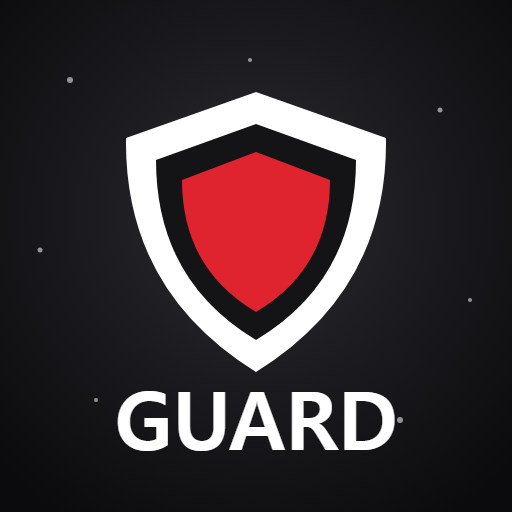
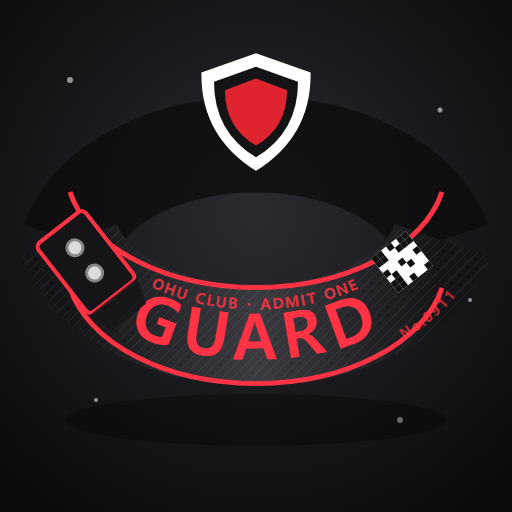
Beige cafe and gukbap order windows, club passes as wristbands (D-640)

Changed region(s): [[0.0625, 0.0938, 0.875, 0.9062], [0.75, 0.5625, 0.875, 0.6875], [0.125, 0.375, 0.1875, 0.4375]]

diff --git a/tools/art/icons/dashboard_icons.html b/tools/art/icons/dashboard_icons.html
@@ -227,18 +227,53 @@ function coldSpark(){
   return s+`</g>`;
 }
 
+// ---------- club wristbands (user 2026-10-31, photos of club entry bands):
+// a Tyvek band looped round, the name printed big along the front, a small
+// club line, a serial number, a QR square and the snap end with its tab
+function qr(x,y,s,col){let r=`<rect x="${x}" y="${y}" width="${s}" height="${s}" fill="#fff"/>`;const n=7,c=s/n;
+  for(let i=0;i<n;i++)for(let j=0;j<n;j++){const corner=(i<2&&j<2)||(i>4&&j<2)||(i<2&&j>4);if(corner||((i*7+j*13+i*j)%3===0))r+=`<rect x="${x+i*c}" y="${y+j*c}" width="${c}" height="${c}" fill="${col}"/>`;}
+  return r}
+function wristband(base,ink,line,text,o={}){
+  const id1=id("bf"),id2=id("bt"),id3=id("bs");
+  const back=o.back||base;
+  let s=`<defs><linearGradient id="${id1}" x1="0" x2="1"><stop offset="0" stop-color="${base}"/><stop offset=".5" stop-color="${o.shine||base}"/><stop offset="1" stop-color="${base}"/></linearGradient>
+    <path id="${id2}" d="M70,240 A190,120 0 0 0 442,240"/>
+    <pattern id="${id3}" width="10" height="10" patternUnits="userSpaceOnUse"><path d="M0,10 L10,0" stroke="#fff" stroke-width="1" opacity=".08"/></pattern></defs>`;
+  s+=shadow(256,420,190,26,.3);
+  // the back of the loop (darker), then the front
+  s+=`<path d="M70,240 A190,120 0 0 1 442,240" stroke="${back}" stroke-width="96" fill="none" opacity=".55"/>`;
+  s+=`<path d="M70,240 A190,120 0 0 1 442,240" stroke="#000" stroke-width="96" fill="none" opacity=".35"/>`;
+  s+=`<path d="M70,240 A190,120 0 0 0 442,240" stroke="url(#${id1})" stroke-width="100" fill="none"/>`;
+  s+=`<path d="M70,240 A190,120 0 0 0 442,240" stroke="url(#${id3})" stroke-width="100" fill="none"/>`;
+  s+=`<path d="M70,192 A190,120 0 0 0 442,192" stroke="${line}" stroke-width="5" fill="none"/><path d="M70,288 A190,120 0 0 0 442,288" stroke="${line}" stroke-width="5" fill="none"/>`;
+  s+=`<text font-size="${o.size||70}" fill="${ink}" letter-spacing="${o.spacing||4}" dy="24"><textPath href="#${id2}" startOffset="${o.at||"50%"}" text-anchor="middle">${text}</textPath></text>`;
+  s+=`<text font-size="15" fill="${ink}" opacity=".85" dy="-26" letter-spacing="3"><textPath href="#${id2}" startOffset="50%" text-anchor="middle">OHU CLUB · ADMIT ONE</textPath></text>`;
+  s+=`<text font-size="14" fill="${ink}" opacity=".7" dy="40"><textPath href="#${id2}" startOffset="86%" text-anchor="middle">No.${o.no||"0001"}</textPath></text>`;
+  s+=`<g transform="translate(402,262) rotate(-38)">${qr(-22,-22,44,"#111")}</g>`;
+  // the snap end and its tab hanging off the left
+  s+=`<g transform="translate(86,262) rotate(52)"><rect x="-44" y="-30" width="88" height="60" rx="6" fill="${base}" stroke="${line}" stroke-width="4"/><circle cx="-18" cy="0" r="8" fill="#ddd" stroke="#888" stroke-width="3"/><circle cx="14" cy="0" r="8" fill="#ddd" stroke="#888" stroke-width="3"/><path d="M44,-30 L70,-22 L70,22 L44,30Z" fill="${base}" opacity=".8"/></g>`;
+  if(o.mark) s+=o.mark;
+  return s;
+}
+const BANDS={
+  vip:()=>wristband("#e8b53a","#2a1a00","#fff1b8","VIP",{shine:"#fff0b0",no:"0777",mark:`<g transform="translate(256,120) scale(.55) translate(-256,-250)">${crown()}</g>`}),
+  guard:()=>wristband("#151517","#ff3344","#ff3344","GUARD",{shine:"#3a3a40",no:"0911",size:64,mark:`<g transform="translate(256,112) scale(.42) translate(-256,-232)">${shield()}</g>`}),
+  dj:()=>wristband("#b02cff","#ffffff","#3ee8ff","DJ",{shine:"#ff3da0",no:"0303",size:84,spacing:10,mark:`<g transform="translate(256,98) scale(.42) translate(-256,-250)">${headphones()}</g>`}),
+};
+
 // ---------- the list ----------
 const D=(t,body,extra="")=>({t,body,extra});
 const ICONS={
-  VIP:D("vip",()=>crown()+`<text x="256" y="452" font-size="88" text-anchor="middle" fill="#f5c542" stroke="#5a3a00" stroke-width="4">VIP</text>`),
-  Guard:D("guard",()=>shield()+`<text x="256" y="450" font-size="80" text-anchor="middle" fill="#fff">GUARD</text>`),
+  // (2026-10-31) club passes as entry wristbands
+  VIP:D("vip",()=>BANDS.vip()),
+  Guard:D("guard",()=>BANDS.guard()),
   FramePack:D("photo",()=>photoStrip(196,250,-10,"#fff",["#ffb3d1","#b3e5ff","#fff2a8","#c8f0c0"])+photoStrip(316,250,10,"#ffd23f",["#ff9fc5","#9fd8ff","#ffe27a","#d6b8ff"])+star(120,110,26)+star(410,120,20)+star(420,400,16), badge("12종","#ff3da0","#fff")),
   CoinX2:D("coin",()=>coin(226,246,150)+`<text x="380" y="420" font-size="130" text-anchor="middle" fill="#fff" stroke="#ff3da0" stroke-width="8" paint-order="stroke">x2</text>`),
   Glowstick:D("glow",()=>glowstick()),
   BusAd1D:D("city",()=>busStop(),badge("24시간")),
   BusAd3D:D("city",()=>busStop(),badge("3일")),
   CoinBoost1h:D("coin",()=>coin(220,240,130)+`<circle cx="372" cy="150" r="64" fill="#fff" stroke="#3ee8ff" stroke-width="8"/><path d="M372,150 L372,108 M372,150 L404,166" stroke="#1a1030" stroke-width="10" stroke-linecap="round"/><text x="390" y="360" font-size="96" text-anchor="middle" fill="#fff" stroke="#ff3da0" stroke-width="7" paint-order="stroke">x2</text>`,badge("1시간")),
-  DJ:D("dj",()=>`<g transform="translate(0,-30)">${headphones()}</g><g transform="translate(62,118) scale(.76)">${turntable()}</g>`,badge("30분","#3ee8ff")),
+  DJ:D("dj",()=>BANDS.dj(),badge("30분","#3ee8ff")),
   Drink_GingerBrew:D("club",()=>shadow(256,452,90,14)+flask(256,440,1.3,"#f0874b","#fae6be","#e2b13c")),
   Drink_Monte:D("club",()=>shadow(256,452,90,14)+flask(256,440,1.3,"#69a528","#fff","#c8102e",`<path d="M0,-108 L6,-94 L20,-94 L9,-85 L13,-71 L0,-79 L-13,-71 L-9,-85 L-20,-94 L-6,-94Z" fill="#c8102e"/>`)),
   Drink_FrenchLemonade:D("club",()=>shadow(256,452,90,14)+flask(256,440,1.3,"#f2d646","#fff","#9aa0a8")),
@@ -380,6 +415,9 @@ const MENU={
   menu_sundae:()=>ttukbaegi("#d9b9a0",{slices:[sundaeSlice(200,234),sundaeSlice(240,246),sundaeSlice(290,228),sundaeSlice(320,248),porkSlice(250,224,6)],onion:true}),
   menu_beef:()=>ttukbaegi("#b8321e",{slices:[beefSlice(206,232,-8),beefSlice(270,240,10),beefSlice(318,228,-4)],onion:true,pepper:true}),
   menu_suyuk:()=>suyuk(),
+  menu_band_vip:()=>BANDS.vip(),
+  menu_band_guard:()=>BANDS.guard(),
+  menu_band_dj:()=>BANDS.dj(),
   menu_header_cafe:()=>mug("#8a4a2a",{steam:true,heart:true,cup:"#fff5f8"}),
   menu_header_gukbap:()=>ttukbaegi("#f1e8d6",{slices:[porkSlice(220,232,-8),porkSlice(290,236,6)],onion:true}),
 };

diff --git a/docs/06_LOG/DECISIONS.md b/docs/06_LOG/DECISIONS.md
@@ -1106,3 +1106,4 @@ D-636 — (2026-10-31, user mock-up) Picture order windows for the cafes (BeachC
 D-637 — (2026-10-31, user, after comparing other club games) Guard pass 199 → 399 R$ (above VIP 299; other clubs 399 and 1450; fewer guards about) and DJ 30분 25 → 49 R$ (one booth per server: while the queue is full the same number of turns sell, about twice the takings). MonetizationConfig prices (the shop rows read them), PRODUCTS.md, GUARD.md, CLUB_SHOP_PRICING.md. The user changes the two prices on the Creator Dashboard (pass 2062319135, product 3722464534). Planned for later, docs only: a permanent DJ title by number of paid DJ turns (5 / 20 / 50 → DJ ROOKIE / RESIDENT DJ / HEADLINER, DJ_SYSTEM.md §7).
 D-638 — (2026-10-31, user screenshots) Club floor light lines at the foot of the entry stairs looked cut: the club's wall-foot line (FloorLED, z -274) and the corridor lines (CorridorNeon_E z -275, CorridorNeon_W z -290) stopped at x 66.5, a stud short of the passage door post (PassageLight, x 65.35); they now run on to it (build_main_social_graybox.lua, changed in the place too). DJ desk: the plain white front panel (DJ_Console.DeskLogo) is a dark glass screen with the LED wall's neon EQ on it (DJScreenController: SurfaceGui in PlayerGui on the panel's floor side, LEDVisuals single mode = EQ only, taller bars from a lower middle line; built once the desk has streamed in). Guard 399 / DJ 49 now also in the Studio place. Checked in Play: stair foot lines meet the post; the desk shows the EQ in the light colours.
 D-639 — (2026-10-31, user) The cafe and 국밥집 order windows now use the club shop's frame (NeonShopUI, like 음료 주문 / 클럽 아이템 상점): the dark navy window with a glowing edge (rose pink for the cafes, warm orange for the 국밥집), the icon in a square tile, title and line, pill tabs on top (음료 / 디저트, 국밥 / 곁들임), two cards a row with the real item in a little 3D window, name, price and 주문 / R\$ buttons (coins-or-Robux items get both), and a note line at the bottom (how it works, 알바생 on duty, what just happened). Real items: SnackService builds FashionGame.FoodPreviews (what you get in the hand; the whole cake for cakes) - the asset foods are laid out under the map for three frames so their welds place them, then anchored; glass made plain (ViewportFrames drop see-through glass); attribute PreviewAngle makes NeonShopUI look down on flat foods (cakes 35°, plates 40°, bowls 32°). ShopMenuUI rewritten on NeonShopUI (the pastel D-636 window and its drawn pictures are no longer used in game; the drawings stay in docs/04_ART/menu_icons). Checked in Play: cafe drinks / desserts with the real cups, bottle, parfait, vintage and tiramisu cakes; 국밥집 bowls; ordering 돼지국밥 took 20 coins, bowl in hand, note shows the message.
+D-640 — (2026-10-31, user) Cafe and 국밥집 order windows bright: the club frame repainted warm beige (ShopMenuUI.paintLight: beige gradient, cream cards with a sand edge, dark brown names, deep gold prices, cream tabs / note / close); the accent edge, picked tab and buttons stay rose pink (cafes) / orange (국밥집); repainted after every tab switch. Club passes drawn as club entry wristbands (user's photos): a Tyvek band looped round with the name printed big (VIP gold, GUARD black with red, DJ purple-pink with cyan), OHU CLUB · ADMIT ONE, a serial number, a QR square and the snap end, with the crown / shield / headphones above. Dashboard icons VIP.png, Guard.png, DJ.png redrawn (dashboard_icons.html BANDS; DJ keeps its 30분 badge); the club shop's pass rows show the same bands (NeonShopUI.wideRow takes an image id: rbxassetid 129430152122263 VIP / 115722704339141 Guard / 87530429290561 DJ). Checked in Play: the cafe window in beige; the pass rows with the bands.

diff --git a/docs/06_LOG/WORKLOG.md b/docs/06_LOG/WORKLOG.md
@@ -2779,3 +2779,6 @@ See ISSUE-MOBILE-001: 7 layout fixes, synced to Studio. The running test session
 
 ### 카페·국밥집 주문창 → 클럽 상점 틀 (D-639)
 ![](images/2026-10-31/cafe_neon_drinks.jpg) ![](images/2026-10-31/cafe_neon_dessert.jpg) ![](images/2026-10-31/gukbap_neon.jpg)
+
+### 밝은 주문창·클럽 팔찌 패스 (D-640)
+![](images/2026-10-31/cafe_beige_final.jpg) ![](images/2026-10-31/club_pass_wristbands.jpg) ![](images/2026-10-31/pass_wristband_icons.png)

diff --git a/docs/06_LOG/PROGRESS_BY_DATE.md b/docs/06_LOG/PROGRESS_BY_DATE.md
@@ -375,3 +375,4 @@
 - 가드 패스 399, DJ 30분 49로 변경, DJ 횟수별 영구 칭호는 기획만(D-637).
 - 계단 아래 조명선 끊김 이음, DJ 데스크 앞 흰 패널 → 이퀄라이저 화면(D-638).
 - 카페·국밥집 주문창을 클럽 상점 틀(어두운 네온 창·상단 탭·실제 아이템 3D 카드)로 변경(D-639).
+- 카페·국밥집 주문창 베이지(밝은 색), VIP·가드·DJ 패스 아이콘을 클럽 팔찌 디자인으로(D-640).
